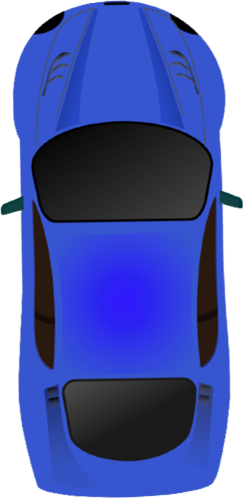
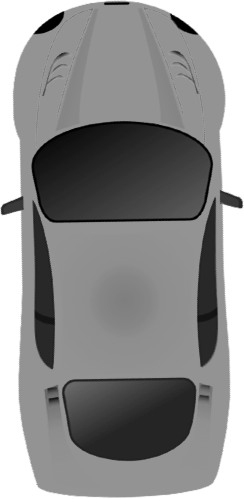
random car colors, added 2 sec delay after move animation, fixed space bar pressed multiple times breaking the game

diff --git a/Assets/Scripts/CarController.cs b/Assets/Scripts/CarController.cs
@@ -11,6 +11,8 @@ public class CarController : MonoBehaviour
     private Quaternion initialRotation;
     private bool newCar=true;
 
+    private Color originalColor;
+
     // Start is called before the first frame update
     void Start()
     {
@@ -37,6 +39,7 @@ public class CarController : MonoBehaviour
 
         if (newCar)
         {
+            // save original car color
             GetComponent<SpriteRenderer>().color = new Color(1f, .5f - speed / 2, .5f - speed / 2);
         }
     }
@@ -47,15 +50,18 @@ public class CarController : MonoBehaviour
         initialRotation=transform.rotation;
         GetComponent<CapsuleCollider2D>().enabled = false;
         rotationPreview = true;
+        originalColor = GetComponent<SpriteRenderer>().color;
     }
 
     private void RotationPreviewEnd()
     {
         // destroys rotation preview
-        GetComponent<SpriteRenderer>().color = new Color(1f, 1f, 1f);
         GetComponent<CapsuleCollider2D>().enabled = true;
         rotationPreview = false;
         newCar=false;
+
+        // restore original car color 
+        GetComponent<SpriteRenderer>().color = originalColor;
     }
 
     // rotation coroutine
@@ -74,6 +80,9 @@ public class CarController : MonoBehaviour
             carRb.AddForce(transform.up * 5);
             yield return null;
         }
+
+        // wait 2 seconds for the car to stop before switching to the next car
+        yield return new WaitForSeconds(2);
 
         newCar=true;
         keycontroll.NextCar();

diff --git a/Assets/Scripts/KeyboardController.cs b/Assets/Scripts/KeyboardController.cs
@@ -53,11 +53,9 @@ public class KeyboardController : MonoBehaviour
             if (sliderForceController.isRunning)
             {
                 sliderForceController.Pause();
-                //sliderAngleController.Continue();
                 StartCoroutine(selectedCar.GetComponent<CarController>().MoveAnimate(this, sliderForce.value, -sliderAngle.value));
-                //NextCar();
             }
-            else
+            else if (sliderAngleController.isRunning)
             {
                 sliderForceController.Continue();
                 sliderAngleController.Pause();
@@ -84,6 +82,10 @@ public class KeyboardController : MonoBehaviour
         {
             GameObject car = Instantiate(cars[0], new Vector2(i, i), Quaternion.identity);
             car.tag = "carTag";
+
+            // set car color to random color
+            car.GetComponent<SpriteRenderer>().color = new Color(Random.Range(0f, 1f), Random.Range(0f, 1f), Random.Range(0f, 1f));
+            
             cars.Add(car);
         }
     }
